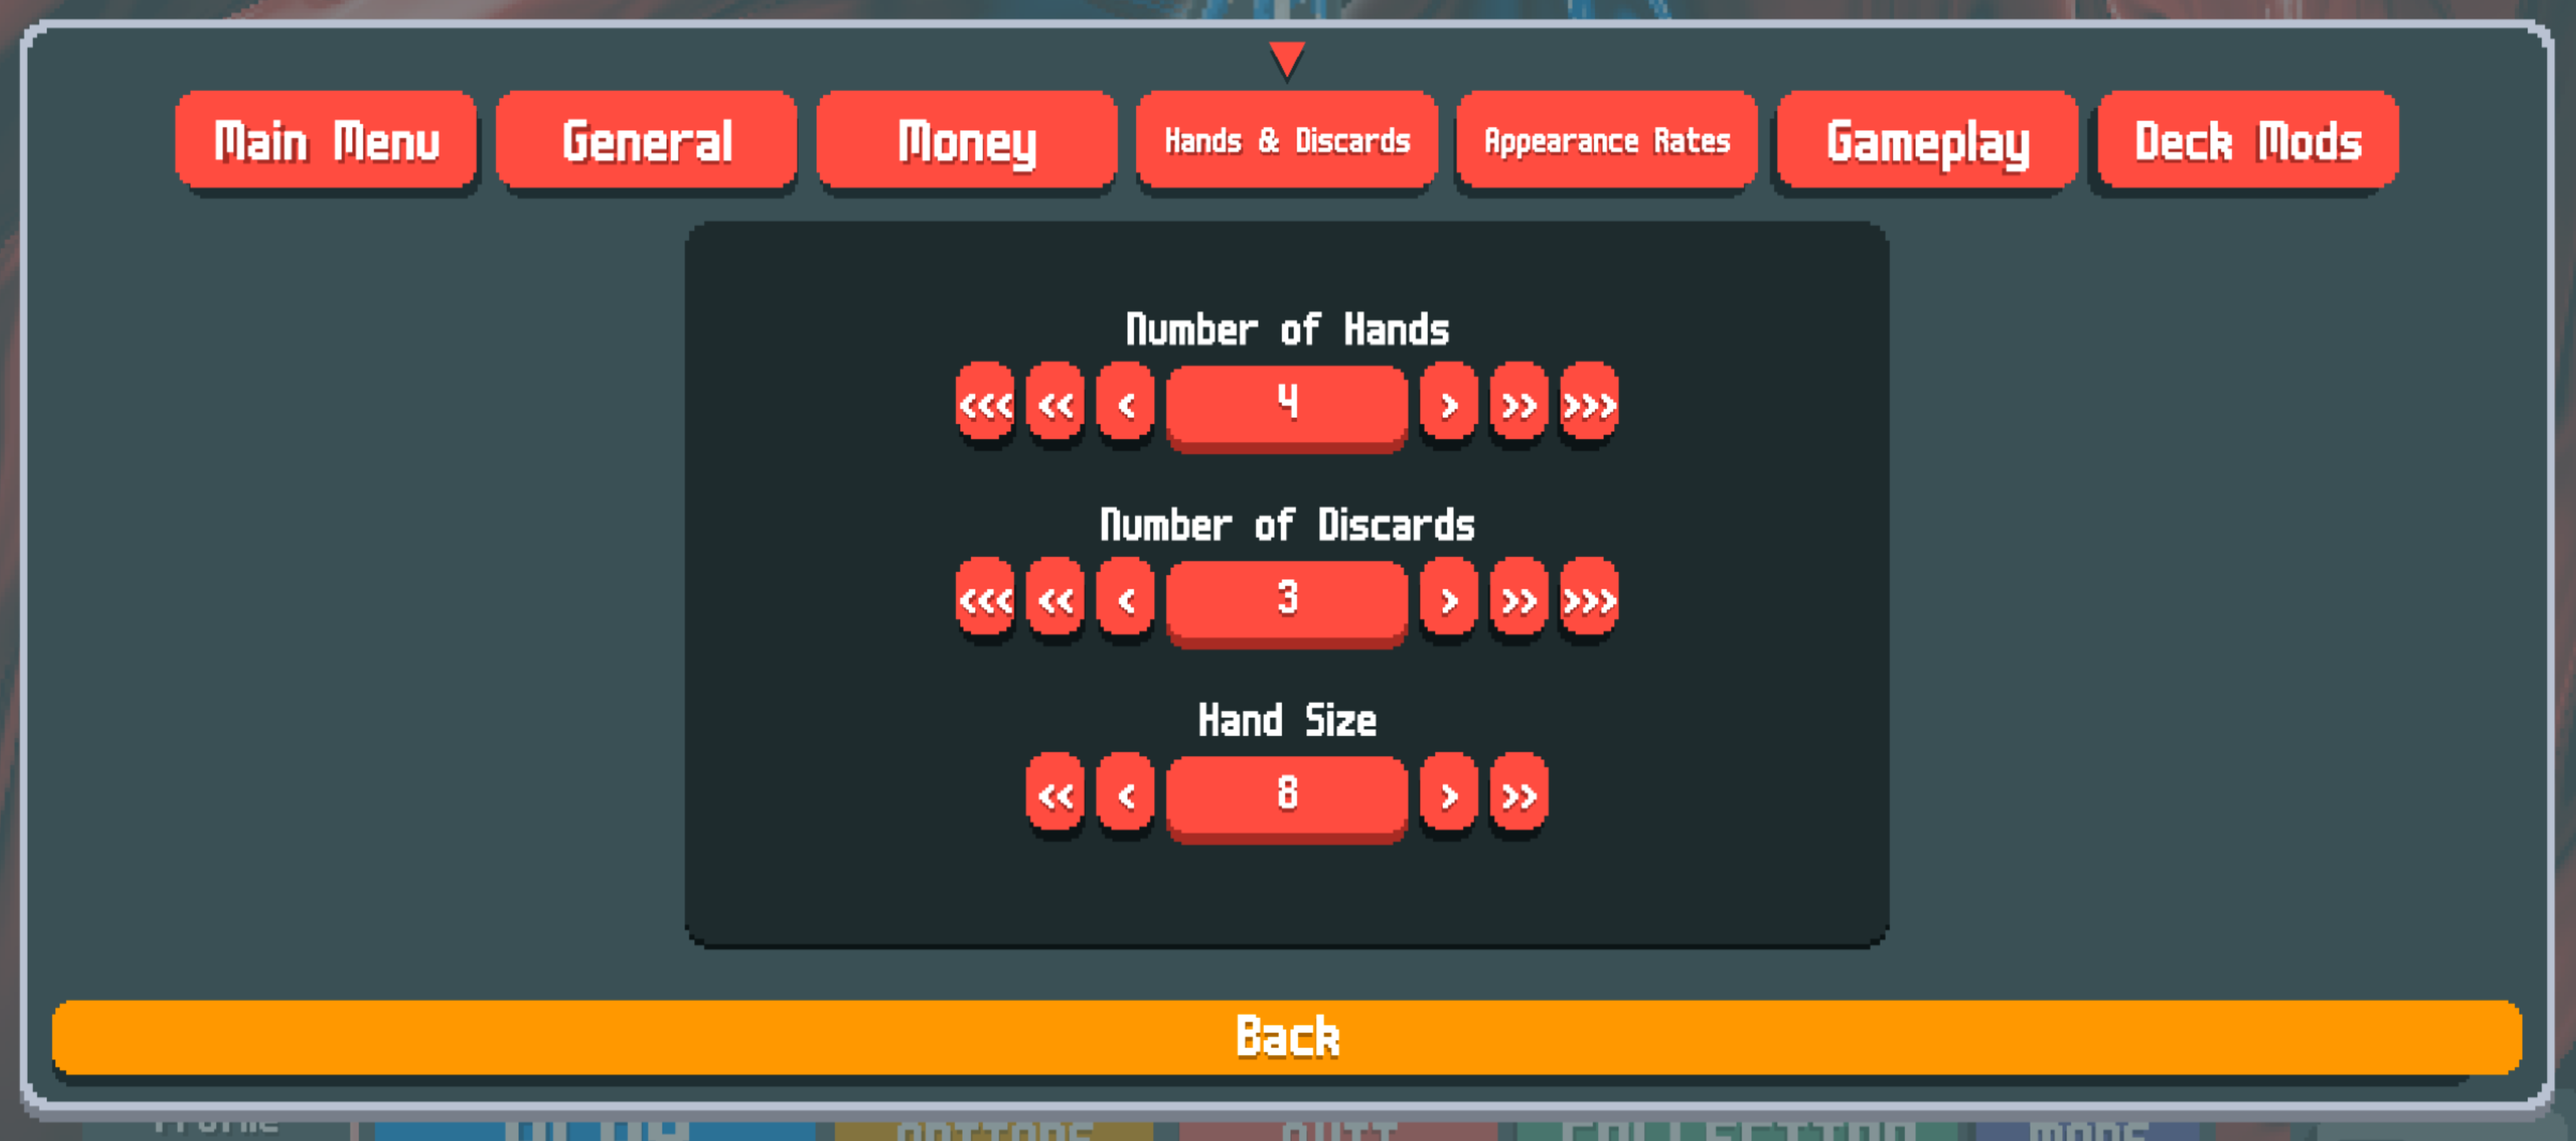
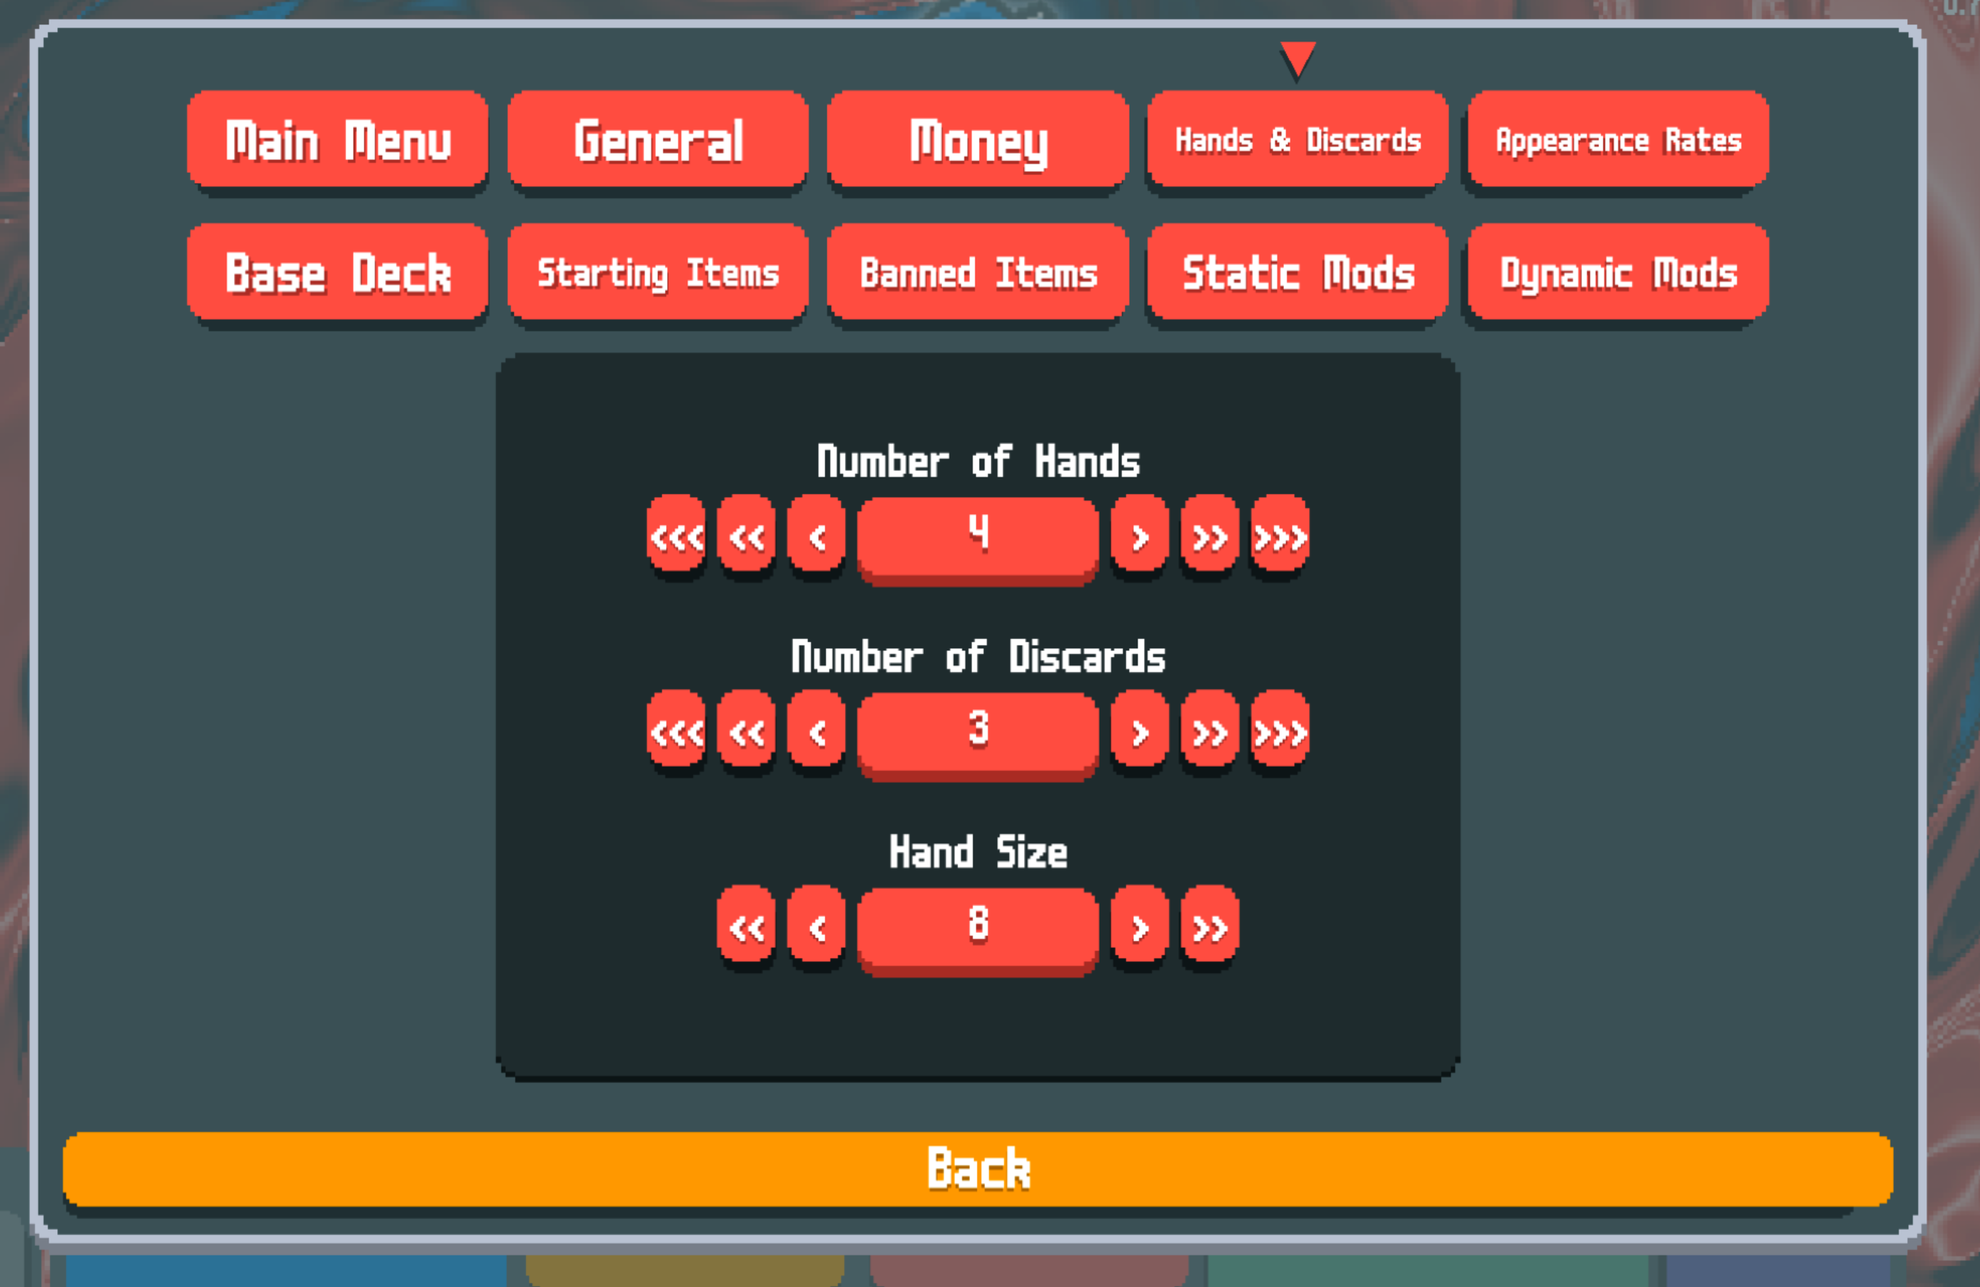
Update readme for v1.0.0 release

diff --git a/README.md b/README.md
@@ -2,7 +2,7 @@
 
 ## Introduction
 
-Deck Creator is a small tool for the game Balatro that allows users to create, save, load, and even share custom decks. Currently only some basic options are provided, but future updates should add more functionality. I'm open to suggestions and contributions!
+Deck Creator is a small tool for the game Balatro that allows users to create, save, load, and even share custom decks. I'm open to suggestions and contributions!
 
 ## Requirements
 
@@ -29,7 +29,7 @@ This project is licensed under the GNU General Public License. This ensures that
 
 ## Screenshots
 
-Create Deck Button
+Create Deck Button    
 ![CreateDeckButton](screenshots/CreateDeckButton.PNG)
 
 
@@ -37,8 +37,12 @@ Main Menu
 ![MainMenu](screenshots/MainMenu.PNG)
 
 
+Manage Decks Menu
+![ManageDecksMenu](screenshots/ManageDecksMenu.PNG)
+
+
 General Options
-![General](screenshots/General.PNG)
+![GeneralOptions](screenshots/GeneralOptions.PNG)
 
 
 Money Options
@@ -52,10 +56,16 @@ Hands & Discards Options
 Appearance Rate Options
 ![AppearanceRates](screenshots/AppearanceRates.PNG)
 
+Deck Editor
+![DeckEditor](screenshots/DeckEditor.PNG)
 
-Gameplay Options
-![Gameplay](screenshots/Gameplay.PNG)
+Starting Items
+![StartingItems](screenshots/StartingItems.PNG)
 
 
-Deck Modification Options
-![DeckMods](screenshots/DeckMods.PNG)
+Static Mods
+![StaticMods](screenshots/StaticMods.PNG)
+
+
+Dynamic Mods
+![DynamicMods](screenshots/DynamicMods.PNG)
